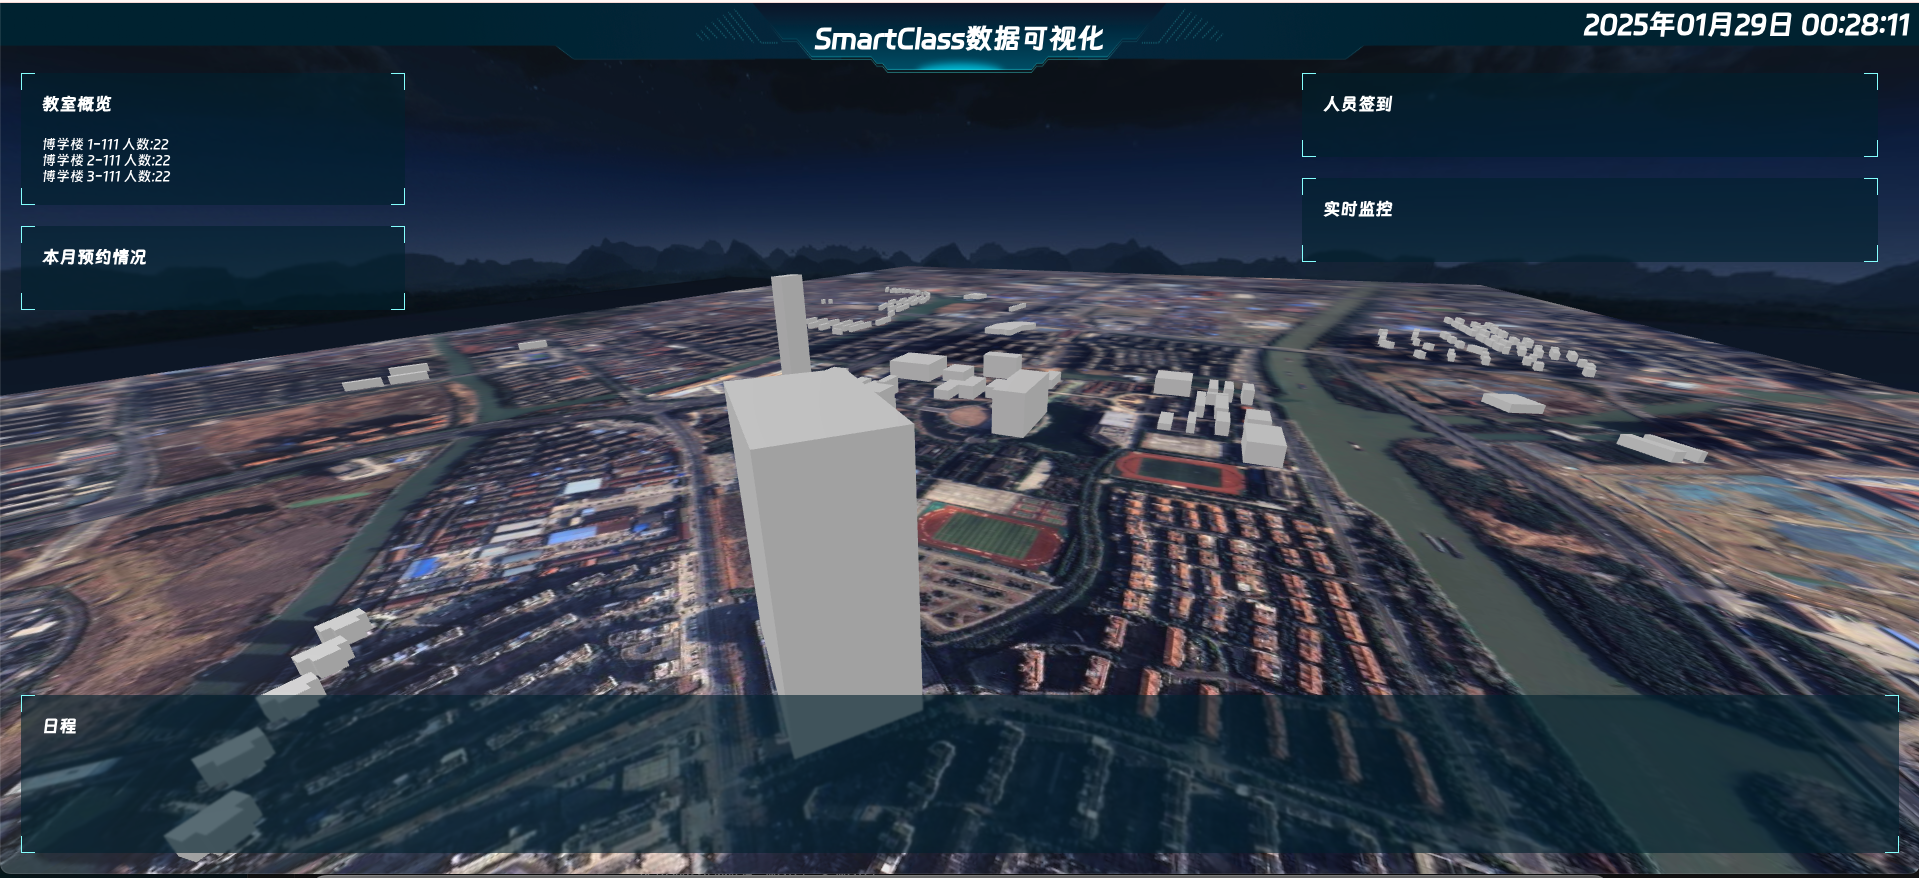
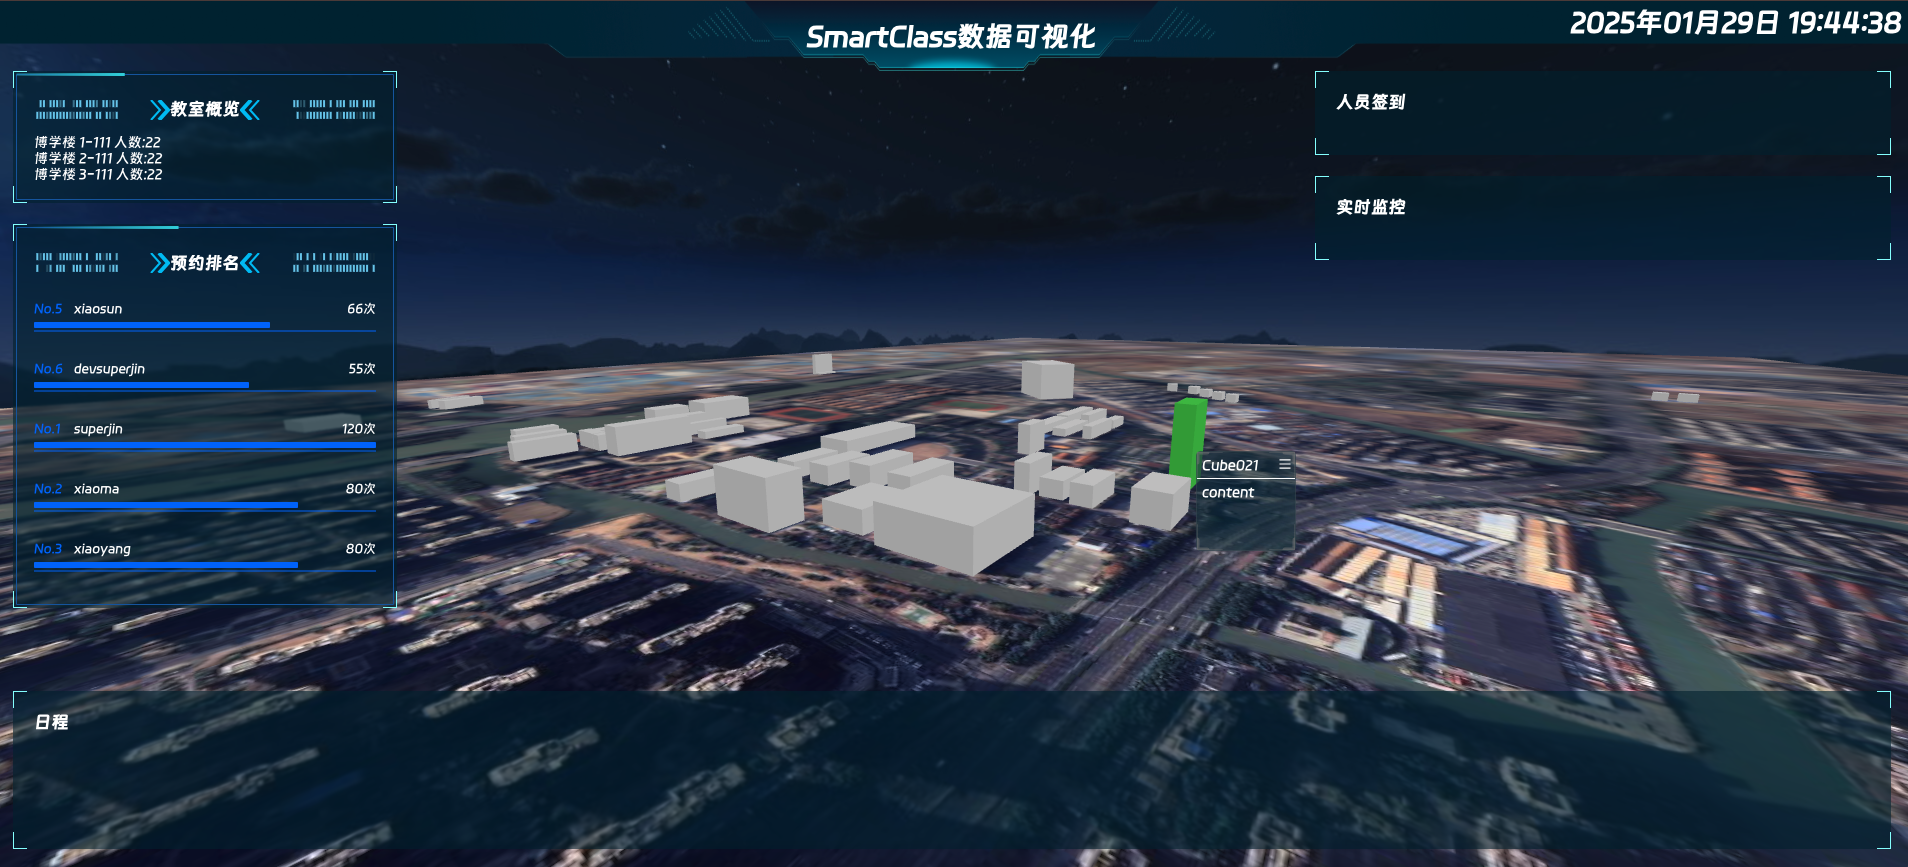
Updated README.md

diff --git a/README.md b/README.md
@@ -77,7 +77,7 @@
 ![Page 6](images/6.jpg)
 
 ### 7. 数据可视化
-(开发中...)
+该模块提供了丰富的数据展示，系统教学楼可视化查看及配置等功能(开发中...)
 ![Page 7](images/7.jpg)
 
 ## 协议与条款
